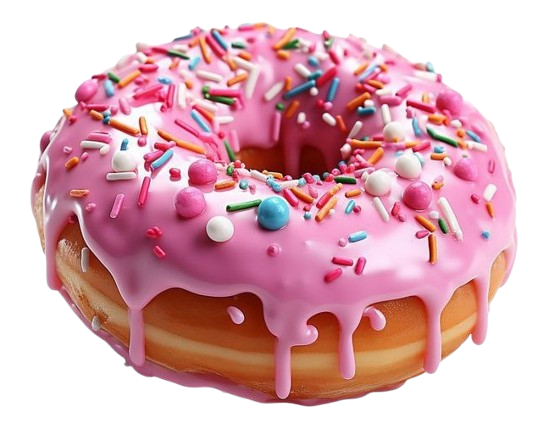
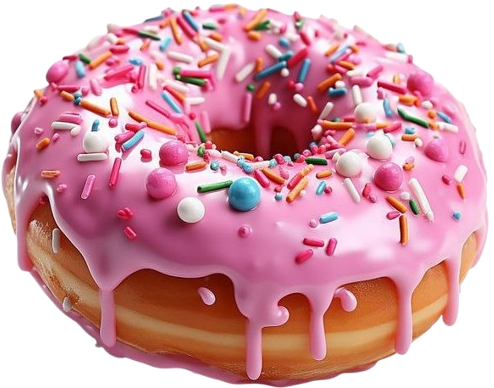
..

diff --git a/CSS/style.css b/CSS/style.css
@@ -410,13 +410,14 @@ nav {
         width: 80%;
 
         .images {
-            width: 810px;
-            height: 450px;
+            width: 740px;
+            height: 400px;
+            position: relative;
+            top: -40px;
 
             img {
                 width: 100%;
                 height: 100%;
-                position: relative;
                 border-radius: 50%;
             }
 
@@ -1152,7 +1153,7 @@ nav {
 
                 button:hover {
                     transform: scale(1.2);
-                    color: rgb(173, 10, 135);
+                    color: rgb(254 119 222);
                     border: 3px solid rgb(173, 10, 135);
                     background-color: white;
                     margin-left: 10px;
@@ -1172,7 +1173,7 @@ nav {
                 }
 
                 i:hover {
-                    color: rgb(173, 10, 135);
+                    color: rgb(254 119 222);
                     transform: scale(1.3);
                 }
             }
@@ -1223,7 +1224,7 @@ nav {
 
                     li a:hover {
                         text-decoration: underline;
-                        color: rgb(173, 10, 135);
+                        color: rgb(254 119 222);
                         transform: scale(1.1);
                     }
                 }
@@ -1240,7 +1241,7 @@ nav {
             justify-content: center;
 
             .donut {
-                color: rgb(224, 6, 173);
+                color: rgb(254 119 222);
                 font-size: 17px;
                 transition: 0.3s ease-in;
                 cursor: pointer;
